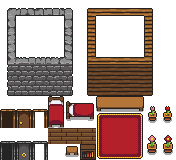
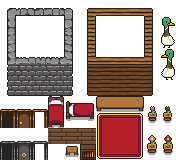
LONGBOI IMPLEMENTED

Changed region(s): [[0.9091, 0.0938, 0.9943, 0.5]]

diff --git a/core/src/main/java/io/github/eng1group9/Main.java b/core/src/main/java/io/github/eng1group9/Main.java
@@ -31,12 +31,13 @@ public class Main extends ApplicationAdapter {
     public static boolean exitOpen = false;
     public static boolean spikesLowered = false;
     public static boolean scrollUsed = false;
+    public static int longboiBonus = 0;
 
     private static TimerSystem timerSystem = new TimerSystem();
     public boolean showCollision = false;
 
     private List<Rectangle> worldCollision;
-    final static int LONGBOIBONUS = 2000;
+    final static int LONGBOIBONUSAMOUNT = 201823;
     final static String TMXPATH = "World/testMap.tmx";
 
     public static Player player;
@@ -82,10 +83,6 @@ public class Main extends ApplicationAdapter {
         instance = this;
     }
 
-    public void deleteKeyTile() {
-        collisionSystem.deleteKeyTile();
-    }
-
     @Override
     public void render() {
         input();
@@ -93,6 +90,18 @@ public class Main extends ApplicationAdapter {
         draw();
     }
 
+    public static void checkForLongboi() {
+        Color messageColour = new Color(0.2f, 1, 0.2f ,1);
+        if (longboiBonus == 0 && !player.hasRedPotion()) {
+            ToastSystem.addToast("Hello There! I seem to have misplaced my Red Potion, could you get it for me?", messageColour);
+         }
+        else if (longboiBonus == 0 && player.hasRedPotion()){
+            longboiBonus = LONGBOIBONUSAMOUNT;
+            ToastSystem.addToast("You found my potion! Thank you!", messageColour);
+            RenderingSystem.showLayer("LONGBOI");
+        }
+    }
+    
     public void draw() {
         renderingSystem.draw(player, dean, showCollision, timerSystem.elapsedTime, worldCollision);
         switch (gameState) {
@@ -163,7 +172,7 @@ public class Main extends ApplicationAdapter {
     }
 
     public static int calculateScore() {
-        return (int)timerSystem.getTimeLeft() * 1000 + LONGBOIBONUS;
+        return (int)timerSystem.getTimeLeft() * 1000 + longboiBonus;
     }
 
     public void tryInteract() {
@@ -205,6 +214,10 @@ public class Main extends ApplicationAdapter {
         checkDeanCatch();
         TriggerSystem.checkTouchTriggers(player);
         player.update();
+    }
+
+    public void getRedPotion() {
+        
     }
 
     /**

diff --git a/core/src/main/java/io/github/eng1group9/systems/RenderingSystem.java b/core/src/main/java/io/github/eng1group9/systems/RenderingSystem.java
@@ -48,7 +48,11 @@ public class RenderingSystem {
     }
 
     public static void hideLayer(String name) {
-        map.getLayers().get(name).setVisible(false);;
+        map.getLayers().get(name).setVisible(false);
+    }
+
+    public static void showLayer(String name) {
+        map.getLayers().get(name).setVisible(true);
     }
 
     public void draw(Player player, Dean dean, boolean showCollision, float elapsedTime, List<Rectangle> worldCollision) {
@@ -57,7 +61,7 @@ public class RenderingSystem {
 
         camera.update();
         mapRenderer.setView(camera);
-        int[] belowPlayer = {0, 1, 2, 3, 4, 5}; // the layers which should appear below the player
+        int[] belowPlayer = {0, 1, 2, 3, 4, 5, 6}; // the layers which should appear below the player
         mapRenderer.render(belowPlayer);
 
         worldBatch.begin();
@@ -65,7 +69,7 @@ public class RenderingSystem {
         dean.draw(worldBatch);
         worldBatch.end();
 
-        int[] abovePlayer = {6, 7, 8, 9, 10, 11, 12, 13}; // the layers which should appear above the player
+        int[] abovePlayer = {7, 8, 9, 10, 11, 12, 13, 14, 15}; // the layers which should appear above the player
         mapRenderer.render(abovePlayer);
         uiBatch.begin();
         font.draw(uiBatch, "Time left: " + getClock(elapsedTime), 10, 640 - 10);

diff --git a/core/src/main/java/io/github/eng1group9/entities/Player.java b/core/src/main/java/io/github/eng1group9/entities/Player.java
@@ -1,10 +1,10 @@
 package io.github.eng1group9.entities;
 
-import io.github.eng1group9.Main;
-
 import com.badlogic.gdx.Gdx;
 import com.badlogic.gdx.graphics.Texture;
 import com.badlogic.gdx.math.Vector2;
+
+import io.github.eng1group9.systems.RenderingSystem;
 import io.github.eng1group9.systems.ToastSystem;
 
 /**
@@ -16,6 +16,7 @@ public class Player extends MovingEntity {
 
     private boolean hasExitKey = false;
     private boolean hasChestRoomKey = false;
+    private boolean hasRedPotion = false;
     private float invisibilityLeft = 0;
     private boolean invisibilityWarningGiven = true;
 
@@ -43,9 +44,21 @@ public class Player extends MovingEntity {
     public void giveChestRoomKey() {
         if (!hasChestRoomKey) {
             hasChestRoomKey = true;
-            Main.instance.deleteKeyTile();
+            RenderingSystem.hideLayer("Key");
             ToastSystem.addToast("You found the Storage Room Key!");
         }
+    }
+
+    public void giveRedPotion() {
+        if (!hasRedPotion) {
+            hasRedPotion = true;
+            RenderingSystem.hideLayer("Potion");
+            ToastSystem.addToast("You found a Red Potion?");
+        }
+    }
+
+    public boolean hasRedPotion() {
+        return hasRedPotion;
     }
 
     public void becomeInvisible() {

diff --git a/core/src/main/java/io/github/eng1group9/systems/TriggerSystem.java b/core/src/main/java/io/github/eng1group9/systems/TriggerSystem.java
@@ -172,7 +172,7 @@ public class TriggerSystem {
                 Main.dropSpikes();
                 break;
             case 4: // Standing by the mouse hole
-                
+                Main.checkForLongboi();
                 break;
             case 5: // Standing by the chest
                 player.giveExitKey();
@@ -182,6 +182,9 @@ public class TriggerSystem {
                 break;
             case 7: // Standing by the chest room door
                 Main.openExit();
+                break;
+            case 8: // Pickup red potion.
+                player.giveRedPotion();
                 break;
             default:
                 break;
